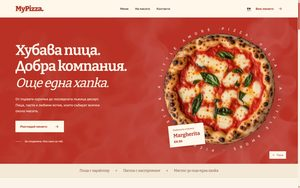
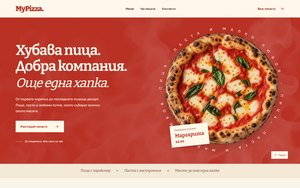
MyPizza: Bulgarian only
The ring around the pizza, the „Маргарита“ caption and the footer line were
still in English or Italian, and the EN button kept a remembered English choice.
The button is hidden and the choice ignored; posters and thumb remade.

diff --git a/sites/mypizza/MyPizza-Red-Paper.html b/sites/mypizza/MyPizza-Red-Paper.html
@@ -72,12 +72,12 @@ body.red-shape.motion-paused .steam-wisp{animation-play-state:paused}
 <body class="red-shape red-paper">
   <a class="skip" href="#menu" data-i18n="skip">Към менюто</a>
   <header class="header">
-    <a class="brand" href="#home" aria-label="MyPizza home">MyPizza<span class="brand-dot">.</span></a>
+    <a class="brand" href="#home" aria-label="MyPizza — начало">MyPizza<span class="brand-dot">.</span></a>
     <nav class="desktop-nav" aria-label="Основна навигация" data-aria="nav">
       <a href="#menu" data-i18n="menu">Меню</a><a href="#table" data-i18n="about">На масата</a><a href="#visit" data-i18n="contact">Контакти</a>
     </nav>
     <div class="header-actions">
-      <button class="language" id="language" type="button" aria-label="Switch to English">EN</button>
+      <button class="language" id="language" type="button" aria-label="Switch to English" hidden>EN</button>
       <a class="header-menu" href="#menu"><span data-i18n="viewMenu">Виж менюто</span><svg viewBox="0 0 24 24" aria-hidden="true"><path d="M5 12h14m-6-6 6 6-6 6"/></svg></a>
       <button class="nav-toggle" aria-expanded="false" aria-controls="mobile-nav" data-aria="openNav" aria-label="Отвори навигацията"><svg viewBox="0 0 24 24" aria-hidden="true"><path d="M4 8h16M4 16h16"/></svg></button>
     </div>
@@ -93,9 +93,9 @@ body.red-shape.motion-paused .steam-wisp{animation-play-state:paused}
       </div>
       <div class="hero-art" aria-label="Пица Маргарита" data-aria="heroArt">
         <div class="pizza-stage">
-          <svg class="orbit" viewBox="0 0 600 600" aria-hidden="true"><defs><path id="orbit-path" d="M300,300 m-268,0 a268,268 0 1,1 536,0 a268,268 0 1,1 -536,0"/></defs><text><textPath href="#orbit-path" textLength="1680" lengthAdjust="spacing">PIZZA, PASTA &amp; A LITTLE AMORE · PIZZA, PASTA &amp; A LITTLE AMORE · </textPath></text></svg>
+          <svg class="orbit" viewBox="0 0 600 600" aria-hidden="true"><defs><path id="orbit-path" d="M300,300 m-268,0 a268,268 0 1,1 536,0 a268,268 0 1,1 -536,0"/></defs><text><textPath href="#orbit-path" textLength="1680" lengthAdjust="spacing">ПИЦА, ПАСТА И МАЛКО ЛЮБОВ · ПИЦА, ПАСТА И МАЛКО ЛЮБОВ · </textPath></text></svg>
           <img class="hero-pizza" src="preview-images/f13d24435c2425eea51f1be2.webp" alt="Маргарита с моцарела, доматен сос и пресен босилек" data-alt="heroImage" width="1024" height="1024" fetchpriority="high">
-          <div class="pizza-caption"><span data-i18n="signature">Любимата класика</span><strong>Margherita</strong><span>€8.50</span></div>
+          <div class="pizza-caption"><span data-i18n="signature">Любимата класика</span><strong>Маргарита</strong><span>€8.50</span></div>
         </div>
         <button class="motion-toggle" id="motion-toggle" type="button" aria-pressed="false"><svg viewBox="0 0 24 24" aria-hidden="true"><path d="M9 5v14M15 5v14"/></svg><span data-i18n="pause">Пауза</span></button>
       </div>
@@ -127,7 +127,7 @@ body.red-shape.motion-paused .steam-wisp{animation-play-state:paused}
     </section>
     <section class="faq-section" aria-labelledby="faq-title"><h2 id="faq-title" data-i18n="faqTitle">Преди първата хапка.</h2><div class="faq-list"><details><summary data-i18n="faq1">Има ли вегетариански предложения?</summary><p data-i18n="faq1Text">Да. В менюто ще намерите пици, салати и десерти без месо. Използвайте филтъра „Без месо“, за да ги разгледате. Те могат да съдържат млечни продукти и яйца.</p></details><details><summary data-i18n="faq2">Къде са описани алергените?</summary><p data-i18n="faq2Text">Към всяко ястие са отбелязани основните алергени. Информацията е примерна за този демо сайт; преди поръчка проверете съставките и възможното кръстосано замърсяване с екипа на ресторанта.</p></details><details><summary data-i18n="faq3">Как да отворя директно менюто?</summary><p data-i18n="faq3Text">Бутонът „Виж менюто“ води към всички категории. QR кодът на масата може да използва същата страница с #menu в края на адреса.</p></details></div></section>
   </main>
-  <footer><a class="brand" href="#home">MyPizza<span class="brand-dot">.</span></a><p data-i18n="footerLine">Пица, паста & още малко amore.</p><div><span data-i18n="demoFooter">Демонстрационен ресторантски сайт</span><a href="#menu" data-i18n="backMenu">Към менюто ↑</a></div></footer>
+  <footer><a class="brand" href="#home">MyPizza<span class="brand-dot">.</span></a><p data-i18n="footerLine">Пица, паста и още малко любов.</p><div><span data-i18n="demoFooter">Демонстрационен ресторантски сайт</span><a href="#menu" data-i18n="backMenu">Към менюто ↑</a></div></footer>
   <script>const imageAssets={"after-hours":"preview-images/537ce07aacc929f1cc9e45ad.webp","arancini":"preview-images/d2ce42abe199c93f0c1b886d.webp","basil-leaves":"preview-images/fffeb807ac57f38856cae49e.webp","burrata-salad":"preview-images/86a656d7b0e5b20ad18279d5.webp","burrata":"preview-images/59841f6169d176c1c6da9225.webp","caesar":"preview-images/4f575fbc44c77f778f8aad26.webp","chicken":"preview-images/c548c29dd0e5031f565e6b61.webp","diavola":"preview-images/5d64bf633c3ec54d59da726a.webp","forno-embers":"preview-images/b8338cedb1af5c46c46a0b56.webp","lemonade":"preview-images/568eb424758a610cad8b06f2.webp","limone-terrace":"preview-images/fd855304733e25ce277c387d.webp","margherita":"preview-images/f13d24435c2425eea51f1be2.webp","mushroom":"preview-images/a0ec6d3e1acac8ed1c7ac25a.webp","panna-cotta":"preview-images/a4b1f797328e75d07796b3c1.webp","pasta":"preview-images/b7e915b4f2d3c1d83b73c967.webp","steam-overlay":"preview-images/7077eaa498c49243cf643c34.webp","sunday-table":"preview-images/a8dbd8f7e35ae717bcb32865.webp","tiramisu":"preview-images/7a7dd148c06fd5a247893c1a.webp"};
 const translations = {
   bg: {
@@ -136,7 +136,7 @@ const translations = {
     menuTitle:'Какво ти се<br><em>хапва днес?</em>', menuIntro:'Нещо за начало, любимата пица или дълъг обяд. Избери си — хубавото е в споделянето.',demoMenu:'Примерно меню · цените са в евро',categories:'Категории на менюто',pizza:'Пици',starters:'За начало',salads:'Салати',mains:'Паста & основни',desserts:'Десерти',drinks:'Напитки',searchLabel:'Търси ястие или съставка',searchPlaceholder:'Ястие или съставка…',filters:'Филтри на менюто',all:'Всички',vegetarian:'Без месо',spicy:'Пикантно',emptyTitle:'Тази хапка още я няма.',emptyText:'Опитай друга съставка или изчисти филтрите.',reset:'Покажи цялото меню',allergenNote:'Алергените са описани към всяко ястие. За алергии или специален хранителен режим винаги се обърнете към екипа. Грамажите са ориентировъчни.',allergens:'Алергени',noListed:'Няма изброени',found:'предложения в менюто',
     pizzaNote:'Хрупкава коричка. Любими вкусове.',startersNote:'Първата хапка е за споделяне.',saladsNote:'Свежо, цветно, щедро.',mainsNote:'За дълги обеди и хубави вечери.',dessertsNote:'Винаги има място.',drinksNote:'Нещо свежо към всяка хапка.',
     tableImage:'Пица с бурата, домати и свеж босилек',photoCaption:'Поводът е прост. Хубава храна.',tableTitle:'Пицария.<br>Ресторант.<br><em>Твоята маса.</em>',tableText:'За бърза пица след работа и за вечерите, които не бързат да свършат. MyPizza събира италианските класики с любимите вкусове на един уютен ресторант.',tableText2:'Започни със салата или нещо хрупкаво. Сподели пица, избери паста и остави малко място за тирамису.',chooseDish:'Избери следващата си хапка',visitTitle:'Ще се видим<br><em>на масата.</em>',visitIntro:'Тук започва следващият хубав обяд. Или вечеря. Или „само по едно парче“.',findUs:'Намери ни',address:'ул. „Твоята улица“ 12<br>Твоят град, България',addressNote:'Примерен адрес за демонстрацията',sayHello:'Кажи „здравей“',contactNote:'Контактите се добавят преди публикуване',hours:'Работно време',weekdays:'Понеделник – Петък',weekends:'Събота – Неделя',hoursNote:'Примерно работно време',
-    faqTitle:'Преди първата хапка.',faq1:'Има ли вегетариански предложения?',faq1Text:'Да. В менюто ще намерите пици, салати и десерти без месо. Използвайте филтъра „Без месо“, за да ги разгледате. Те могат да съдържат млечни продукти и яйца.',faq2:'Къде са описани алергените?',faq2Text:'Към всяко ястие са отбелязани основните алергени. Информацията е примерна за този демо сайт; преди поръчка проверете съставките и възможното кръстосано замърсяване с екипа на ресторанта.',faq3:'Как да отворя директно менюто?',faq3Text:'Бутонът „Виж менюто“ води към всички категории. QR кодът на масата може да използва същата страница с #menu в края на адреса.',footerLine:'Пица, паста & още малко amore.',demoFooter:'Демонстрационен ресторантски сайт',backMenu:'Към менюто ↑',title:'MyPizza — пица, паста и още нещо вкусно',description:'Разгледайте менюто на MyPizza: пици, салати, паста, основни ястия и десерти. Намерете съставки, цени и информация за посещение на едно място.'
+    faqTitle:'Преди първата хапка.',faq1:'Има ли вегетариански предложения?',faq1Text:'Да. В менюто ще намерите пици, салати и десерти без месо. Използвайте филтъра „Без месо“, за да ги разгледате. Те могат да съдържат млечни продукти и яйца.',faq2:'Къде са описани алергените?',faq2Text:'Към всяко ястие са отбелязани основните алергени. Информацията е примерна за този демо сайт; преди поръчка проверете съставките и възможното кръстосано замърсяване с екипа на ресторанта.',faq3:'Как да отворя директно менюто?',faq3Text:'Бутонът „Виж менюто“ води към всички категории. QR кодът на масата може да използва същата страница с #menu в края на адреса.',footerLine:'Пица, паста и още малко любов.',demoFooter:'Демонстрационен ресторантски сайт',backMenu:'Към менюто ↑',title:'MyPizza — пица, паста и още нещо вкусно',description:'Разгледайте менюто на MyPizza: пици, салати, паста, основни ястия и десерти. Намерете съставки, цени и информация за посещение на едно място.'
   },
   en: {
     skip:'Skip to the menu',menu:'Menu',about:'At the table',contact:'Visit us',nav:'Main navigation',openNav:'Open navigation',viewMenu:'View menu',heroTitle:'Good pizza.<br>Great company.<br><em>One more bite.</em>',heroText:'From the first crust to the last spoonful of dessert. Pizza, pasta and familiar favorites that bring everyone to the table.',explore:'Explore the menu',heroNote:'Made to share. Or keep to yourself.',heroArt:'Margherita pizza',heroImage:'Margherita with mozzarella, tomato sauce and fresh basil',signature:'The favorite classic',pause:'Pause',play:'Play animation',strip1:'Pizza with personality',strip2:'Pasta for the occasion',strip3:'Room for one more bite',
@@ -165,7 +165,7 @@ const dishes = [
 
 const categoryOrder=['pizza','starters','salads','mains','desserts','drinks'];
 const state={lang:'bg',filter:'all',query:''};
-try { if(localStorage.getItem('mypizza-language')==='en') state.lang='en'; } catch {}
+
 const escapeHTML=value=>String(value).replace(/[&<>"']/g,c=>({'&':'&amp;','<':'&lt;','>':'&gt;','"':'&quot;',"'":'&#39;'}[c]));
 const t=key=>translations[state.lang][key]||key;
 const normalize=value=>value.toLocaleLowerCase().normalize('NFD').replace(/[\u0300-\u036f]/g,'');

diff --git a/assets/projects.js b/assets/projects.js
@@ -66,7 +66,7 @@ window.LUMINA_PROJECTS = [
     kind: 'Пицария',
     blurb: 'Меню с категории, търсене и филтри, което се разглежда удобно и с една ръка.',
     paper: 'blue',
-    url: 'sites/mypizza/MyPizza-Red-Paper.html',
+    url: 'sites/mypizza/MyPizza-Red-Paper.html?v=2', // v=2: Bulgarian only (2026-10-17)
     // Public address is still a placeholder; show the working local preview.
     readySelector: 'main',
     resetSelector: '#reset-filters',
@@ -74,8 +74,8 @@ window.LUMINA_PROJECTS = [
     ink: '#fff7e9',
     colorScheme: 'light',
     modes: {
-      desktop: { width: 1440, height: 900, poster: 'assets/previews/mypizza-desktop.jpg' },
-      mobile: { width: 402, height: 778, poster: 'assets/previews/mypizza-mobile.jpg' }
+      desktop: { width: 1440, height: 900, poster: 'assets/previews/mypizza-desktop.jpg?v=2' },
+      mobile: { width: 402, height: 778, poster: 'assets/previews/mypizza-mobile.jpg?v=2' }
     }
   }
 ];

diff --git a/index.html b/index.html
@@ -45,7 +45,7 @@
   <link rel="stylesheet" href="assets/hero-demos.css?v=3">
   <script src="assets/hero-demos.js?v=1" defer></script>
   <script src="services-ideas.js?v=14" defer></script>
-  <script src="assets/projects.js?v=6" defer></script>
+  <script src="assets/projects.js?v=7" defer></script>
   <script src="assets/project-stories.js?v=12" defer></script>
   <script src="portfolio-story.js?v=13" defer></script>
   <script src="assets/site-preview.js?v=13" defer></script>

diff --git a/CLAUDE.md b/CLAUDE.md
@@ -40,6 +40,8 @@ Design review 2026-10-13 (Impeccable critique + audit, saved in `.impeccable/cri
 
 Projects in the portfolio change only when the visitor picks one (`data-auto-advance="false"` on `#portfolio`); the preview inside keeps scrolling.
 
+MyPizza is Bulgarian only since 2026-10-17 (owner's request): its EN button is `hidden` and a remembered `mypizza-language` choice is ignored (the English dictionary stays in the file, unused); the ring around the pizza reads „ПИЦА, ПАСТА И МАЛКО ЛЮБОВ“, the caption „Маргарита“, the footer „Пица, паста и още малко любов.“ Its posters and thumb were remade then (`?v=2`).
+
 `overview.css/js`, `portfolio.js` and `contact.js` are the previous versions of these sections; they are kept but no longer loaded. The new sections were designed in a separate Codex copy of the project and merged in on 2026-10-11; its standalone variation pages were deliberately not brought over.
 
 Picking another project used to flash the still poster (the finished landing page) before the live site played its own opening, which read as a jump (reported by the owner on a phone, 2026-10-14). `select()` in `assets/site-preview.js` now sets `body[data-preview-switching]` for up to 2.5s or until the new site is live, and the CSS hides the posters meanwhile. To test the previews without a local server, serve the working copy through Playwright's `context.route` on a made-up https address.
